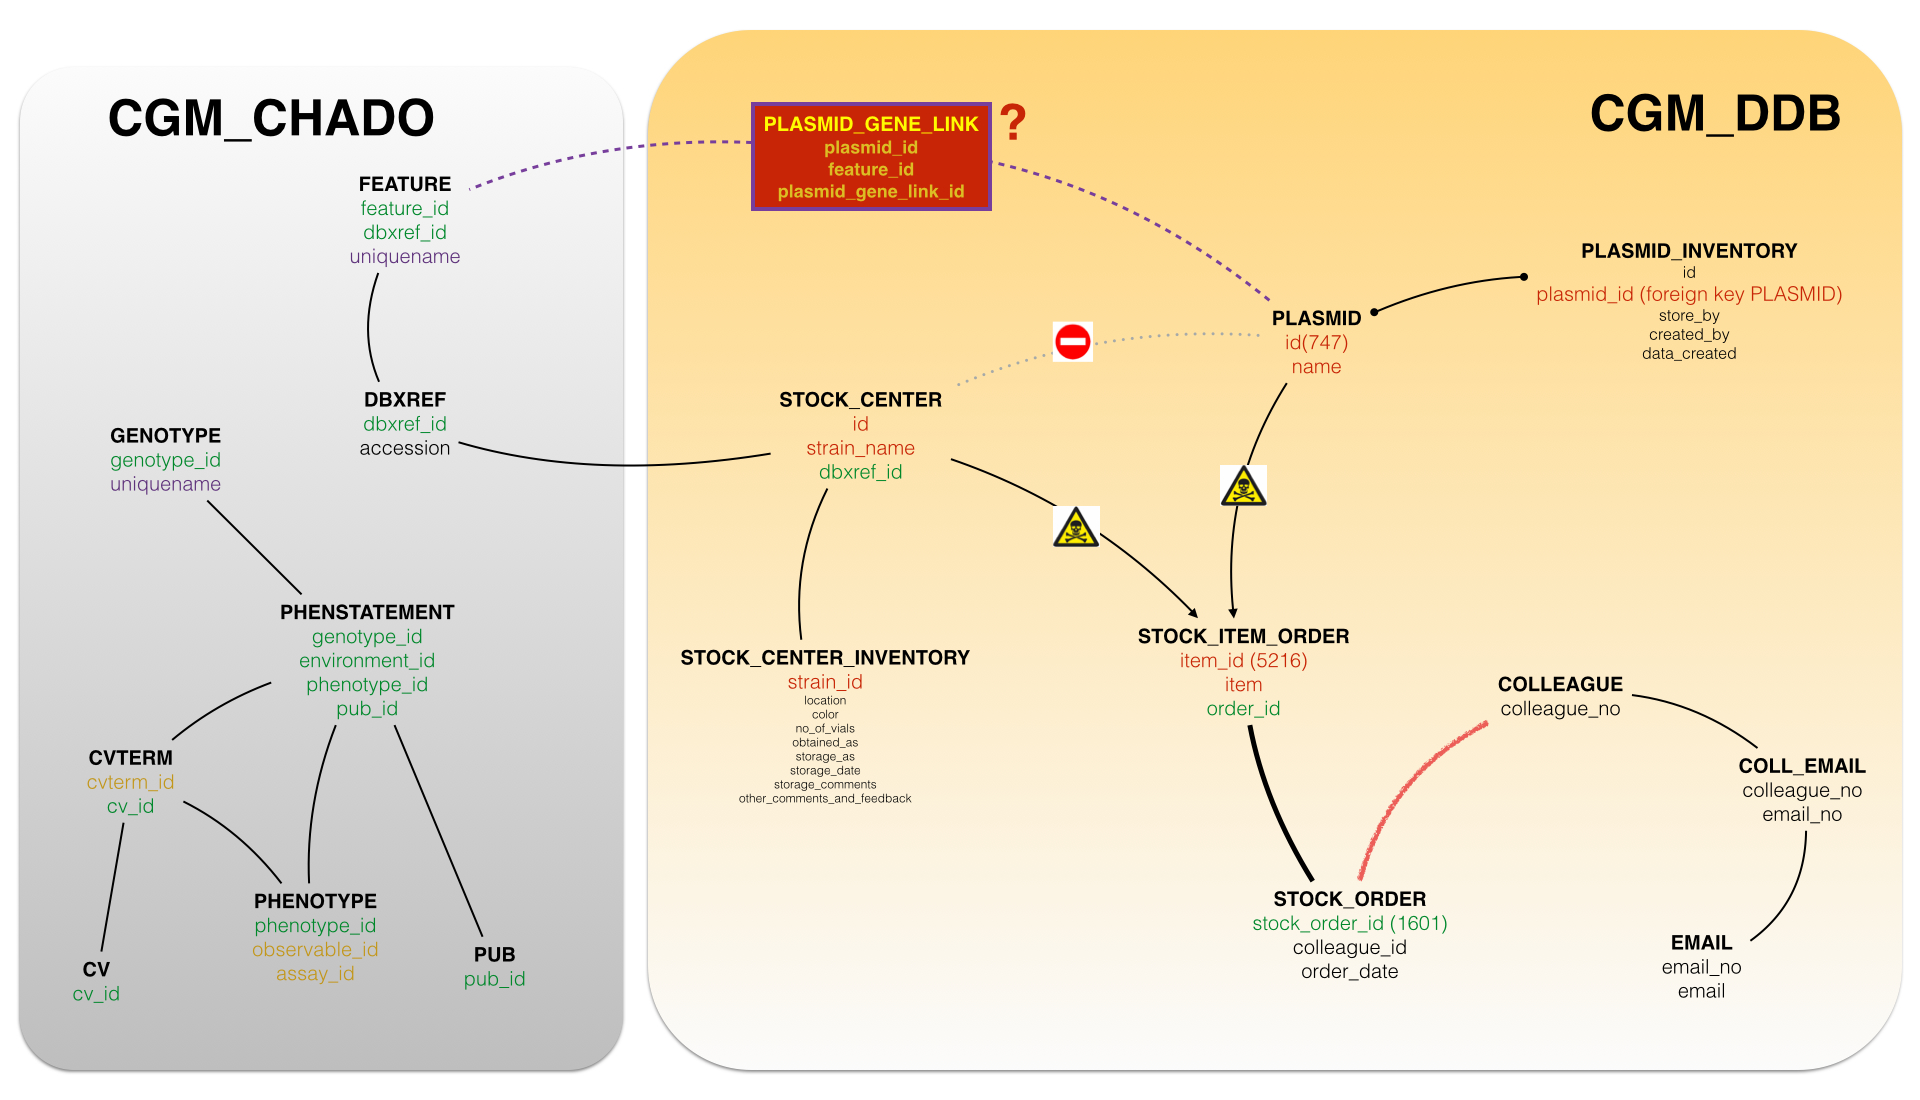
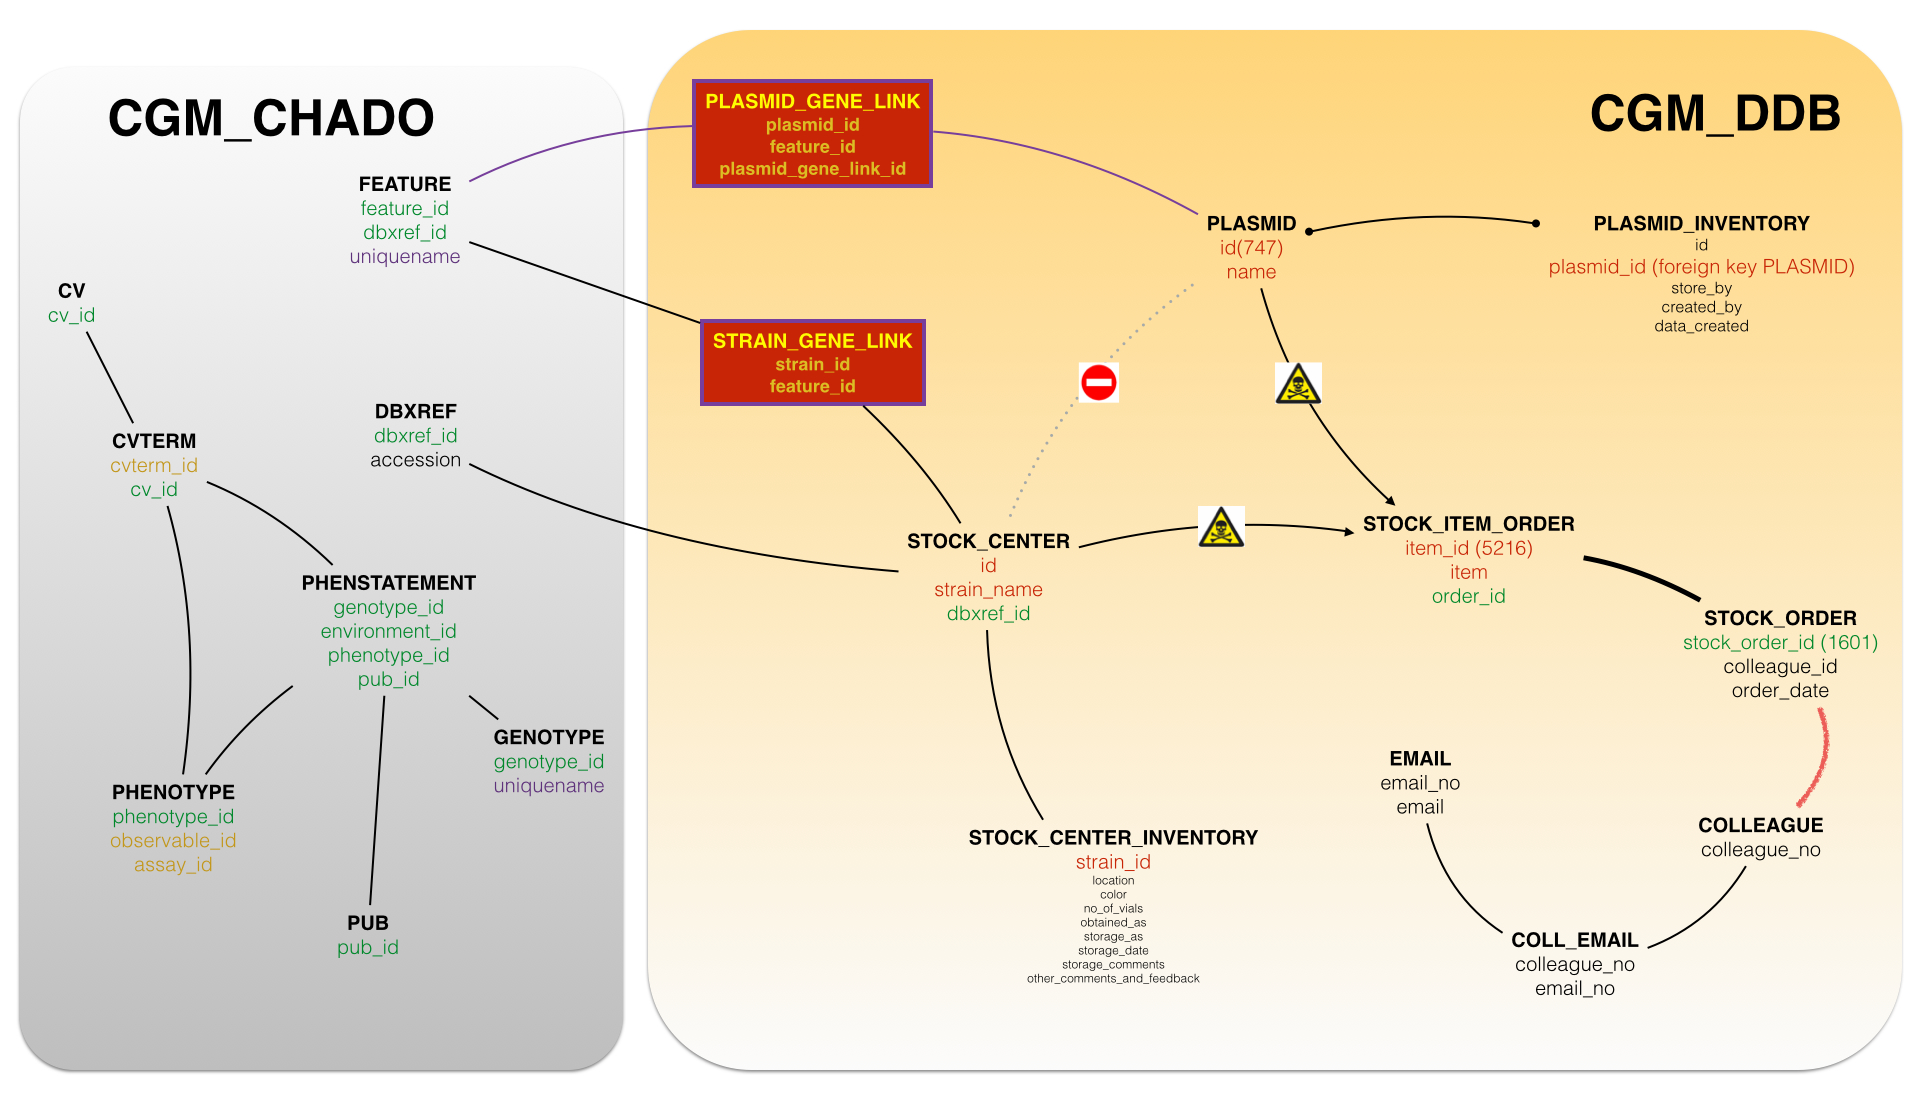
Stock Center Validation Analysis
The analysis has been completed

diff --git a/stock-data-migration/export.md b/stock-data-migration/export.md
@@ -1,13 +1,7 @@
-EXPORT
+STOCK_CENTER EXPORT
 ===
 
-# SQL for stock data export
-(`+` counts added on Apr 2015)
-
-## STRAINS
-
-- 6063 records in the `stock_center` table, with both unique `ID` and `DBXREF_ID`
-- 5594 unique `stock_name`
+Check the file [`export_validation`] for an analysis of the SQL statements found in this file.
 
 ```sql
 /* Strain (6063) -> strain_strain.tsv (6063) */
@@ -23,23 +17,12 @@ FROM CGM_DDB.stock_center_inventory sci
 JOIN CGM_DDB.stock_center sc ON sc.id = sci.strain_id
 JOIN CGM_CHADO.dbxref d ON d.dbxref_id = sc.dbxref_id;
 ```
-***Strain inventory notes***: 2468 inventory records, but there exist 1970 unique DBS_ID (which means that 498 records in the inventory are duplicates)
 
-
----
 ```sql
 /* Strain publications (6063) -> strain_publications.tsv(5988), strain_publications_no_pubmed.tsv(1949) */
 SELECT sc.strain_name, sc.pubmedid, sc.internal_db_id, sc.other_references
 FROM CGM_DDB.stock_center sc;
 ```
-***Strain publications notes***: 
-- Database: 4,523 strains have pubmed references in the pubmedid column, which means that 1,540 do not have one.
-
-- Exported to file `strain_publications.tsv`
-  + 5988 annotations
-  + 5448 unique DB_IDs (with a reference)
-  + 1076 unique references (many duplications)
-    * For example, the publication with PubmedID:17659086 appears 2258 times
 
 ```sql
 /* Helpful SQL to explore bibliography */
@@ -47,7 +30,6 @@ SELECT sc.strain_name, sc.pubmedid, sc.internal_db_id, sc.other_references
 FROM CGM_DDB.stock_center sc
 WHERE sc.pubmedid is null AND (sc.OTHER_REFERENCES is not null AND REGEXP_LIKE(OTHER_REFERENCES, '^(d[0-9]{4}/)'))
 ```
----
 
 ```sql
 /* Strain genotype (6063) -> strain_genotype.tsv */
@@ -56,16 +38,11 @@ FROM CGM_DDB.stock_center sc
 JOIN CGM_CHADO.dbxref d ON d.dbxref_id = sc.dbxref_id;
 ```
 
----
-
-#### TO VERIFIED
 ```sql
 /* Strain phenotype (6063) -> strain_phenotype.tsv (7742) */
 SELECT sc.strain_name, sc.phenotype
 FROM CGM_DDB.stock_center sc;
 ```
-
-***Strain phenotype possible conflict***: there are 1425 strains with phenotypes annotated in the database. However, the file `strain_phenotype.tsv` has 4,254 unique DB_ids, which means that strain phenotypes come from the following statement: 
 
 ```sql
 /* Phenotype (7742) -> strain_phenotype.tsv */
@@ -82,9 +59,10 @@ LEFT JOIN pub on pub.pub_id = pst.pub_id
 ORDER BY g.uniquename, pub.uniquename, phen.name;
 ```
 
-The question is: what is the relationship between this statement and the dicty stock center?
-
----
+```sql
+LEFT JOIN cv env_cv on env_cv.cv_id = env.cv_id
+LEFT JOIN cv assay_cv on assay_cv.cv_id = assay.cv_id
+```
 
 ```sql
 /* Strain gene link (1498) -> strain_genes.tsv (1498) */
@@ -105,30 +83,14 @@ JOIN CGM_CHADO.dbxref d ON d.dbxref_id = sc.dbxref_id
 JOIN CGM_CHADO.cvterm ct ON ct.cvterm_id = scc.cvterm_id;
 ```
 
-#### Modware-loader exported files
-
-`perl -Ilib bin/modware-dump dictystrain -c config-legacy.yaml -d data/`
-
-```shell
-With SQL
-      wc file
-   19297 strain_characteristics.tsv
-    1498 strain_genes.tsv
-    6063 strain_genotype.tsv
-    2468 strain_inventory.tsv
-    7742 strain_phenotype.tsv
-    6063 strain_strain.tsv
-
-    5988 strain_publications.tsv (5448 unique DB_ids)
-    1949 strain_publications_no_pubmed.tsv (1304 unique DB_ids)
-
-WITHOUT SQL
-   15317 strain_parent.tsv
-    4626 strain_plasmid.tsv
-   15098 strain_props.tsv
+```sql
+SELECT  d.accession, d2.accession gene_id, f.UNIQUENAME
+FROM CGM_DDB.stock_center sc
+JOIN CGM_DDB.strain_gene_link sgl ON sc.id = sgl.strain_id
+JOIN CGM_CHADO.dbxref d ON d.dbxref_id = sc.dbxref_id
+JOIN CGM_CHADO.feature f ON f.feature_id = sgl.feature_id
+JOIN CGM_CHADO.dbxref d2 ON d2.dbxref_id = f.dbxref_id
 ```
-
-## PLASMIDS
 
 ```sql
 /* Plasmid (747) -> plasmid_plasmid.tsv (747)*/
@@ -159,78 +121,8 @@ FROM CGM_DDB.plasmid
 WHERE genbank_accession_number IS NOT NULL;
 ```
 
-#### Modware-loader exported files
-
-`perl -Ilib bin/modware-dump dictyplasmid -c config-legacy.yaml -d data/`
-
-```shell
-With SQL
-      wc file
-      50  plasmid_genbank.tsv
-     531  plasmid_genes.tsv
-     835  plasmid_inventory.tsv
-     747  plasmid_plasmid.tsv
-
-WITHOUT SQL
-     3663  plasmid_props.tsv
-     655  plasmid_publications.tsv
-     456  plasmid_publications_no_pubmed.tsv  
-```
-
-#### SQL for those without SQL statements (`publications, publications_no_pubmed, props`)
-
-###### `plasmid_publications` (pubmedid)
-
-***In file***
-- 655 Number of publications in file
-- 554 unique DBP_ID in file
-
-***In database***
-
-- 747 plasmids
-  + 727 unique names (17 `names` are redundant)
-  + 549 with pubmedids
-  + 198 non pubmeids, with (9) nulls and  (189) has `spaces` in the pubmedid field.
-    * 179 are non-redundant (an example of redundant plasmid with `spaces` is: `pDDB_G0295493-REMI`.
-
 ```sql
-SELECT name
-FROM CGM_DDB.plasmid
-WHERE PUBMEDID IS NULL or
-REGEXP_LIKE(pubmedid, '^ +$')
-```
-
-```sql
-SELECT name, COUNT(*) AS REDUNDANT
-FROM CGM_DDB.plasmid
-WHERE PUBMEDID IS NULL or
-REGEXP_LIKE(pubmedid, '^ +$')
-GROUP BY NAME
-ORDER BY REDUNDANT DESC
-```
-
-###### `plasmid_props.tsv`
-It contains data for each plasmid of `depositor`, `synonymn`, and `keywords`, each of them in any line (3663). The specifics are:
-
-- In file: 744 unique IDs
-- In database: 747 plasmids
-  + 726 have depositor
-  + 506 have synonymn
-  + 706 keywords
-  + 477 have the three of them
-  + 3 don't have the three of them
-
-Conclusion: The file seems to be right.
-
-```sql
-SELECT depositor, synonymn, keywords 
-FROM plasmid
-```
-
-## Stock Orders
-
-```sql
-/* Stock Center Orders - Plasmids (1978) */
+/* Stock Center Orders(1978) - Plasmids (1978) */
 SELECT so.stock_order_id order_id, so.order_date, plasmid.id, plasmid.name, colleague.colleague_no, colleague.first_name, colleague.last_name, email.email
 FROM cgm_ddb.plasmid
 JOIN cgm_ddb.stock_item_order sio on
@@ -246,7 +138,7 @@ LEFT JOIN cgm_ddb.email on email.email_no=coe.email_no;
 ```
 
 ```sql
-/* Stock Center Orders - Strains (3132) */
+/* Stock Center Orders(3132) - Strains (3132) */
 SELECT so.stock_order_id order_id, so.order_date, sc.id id, sc.strain_name name, colleague.colleague_no, colleague.first_name, colleague.last_name, email.email
 FROM cgm_ddb.stock_center sc
 JOIN cgm_ddb.stock_item_order sio on

diff --git a/stock-data-migration/export_validation.md b/stock-data-migration/export_validation.md
@@ -1,9 +1,9 @@
 Stock Export: Data Validation
 ===
 
-Data validation to ensure that the data exported using `modware` is the same as the data retrieve from the database using SQL statements. The analysis is based on the counts of both the files and sql outputs.
+The following analysis was performed to ensure that the data exported using `modware-loader` is the same as the data retrieve from the database using `SQL` statements. The analysis is based on the counts of both the files and sql outputs.
 
-The database snapshot used was `dictyfull_20150309.zip`. As consequence, a different snapshot might get different counts than those summarized here.
+The database snapshot used was `dictyfull_20150309.zip`. A different snapshot might get different counts than those summarized here.
 
 The tables used to build the queries are summarized in the following figure:
 
@@ -104,7 +104,7 @@ FROM CGM_DDB.stock_center sc;
 
 ---
 
-***Strain phenotype possible conflict***: there are 1425 strains with phenotypes annotated in the database. However, the file `strain_phenotype.tsv` has 4,254 unique DB_ids, which means that strain phenotypes come from the following statement: 
+***Strain phenotype notes***: there are 1425 strains with phenotypes annotated in the database. However, the file `strain_phenotype.tsv` has 4,254 unique DB_ids, which means that strain phenotypes come from the following statement: 
 
 ```sql
 /* Phenotype (7742) -> strain_phenotype.tsv */
@@ -121,10 +121,12 @@ LEFT JOIN pub on pub.pub_id = pst.pub_id
 ORDER BY g.uniquename, pub.uniquename, phen.name;
 ```
 
-The statement is basically exporting the table PHENSTATEMENT (7742 elements), which is a linking table expressing the relationship between genotype, environment, and phenotype.
+The statement is basically exporting the table `PHENSTATEMENT` (7742 elements), which is a linking table expressing the relationship between genotype, environment, and phenotype.
 
 The questions are: 
-* what is the relationship between the statement and the dicty stock center? Response: there is no direct relationship. It is just a list of phenotypes what we need to export. 
+* what is the relationship between the statement and the dicty stock center? 
+
+Response: there is no direct relationship. It is just a list of phenotypes what we need to export. 
 
 * Are these JOINs really necessary? 
 
@@ -133,7 +135,7 @@ LEFT JOIN cv env_cv on env_cv.cv_id = env.cv_id
 LEFT JOIN cv assay_cv on assay_cv.cv_id = assay.cv_id
 ```
 
-Response: I don't think so. Or at least, it does not affect the results of the SELECT statement.
+Response: They don't. They will be further removed.
 
 ---
 
@@ -156,6 +158,24 @@ JOIN CGM_CHADO.dbxref d ON d.dbxref_id = sc.dbxref_id
 JOIN CGM_CHADO.cvterm ct ON ct.cvterm_id = scc.cvterm_id;
 ```
 
+***Strain - Feature relationship***
+
+The connection between `strains` and the `feature` table can be inferred from the `strain_genes.tsv` file.
+
+Summary: the connection between strains, i.e. `stock_center` (6063 ids, 5594 distinct `strain_names`) and the table `feature` is through the table `strain_gene_link` (1498 with 1318 `strain_ids` and 525 `feature_id`, i.e., a strain might have many `feature_id` associated. In addition, a `feature_id` might have many strains associated). 
+
+Although the table `stock_center` has a column `dbxref_id` that links to the table `dbxref`, and it could lead you to think that could be used to link it to the `feature` table, it is not possible because those `dbxref_id` coming from `stock_center` do not have a connection to the `feature` table. That's why the table `strain_gene_link` is necessary. 
+
+```sql
+SELECT  d.accession, d2.accession gene_id, f.UNIQUENAME
+FROM CGM_DDB.stock_center sc
+JOIN CGM_DDB.strain_gene_link sgl ON sc.id = sgl.strain_id
+JOIN CGM_CHADO.dbxref d ON d.dbxref_id = sc.dbxref_id
+JOIN CGM_CHADO.feature f ON f.feature_id = sgl.feature_id
+JOIN CGM_CHADO.dbxref d2 ON d2.dbxref_id = f.dbxref_id
+```
+
+Output: 1498 records. 
 
 
 ## PLASMIDS
@@ -261,7 +281,7 @@ FROM plasmid
 ## Stock Orders
 
 ```sql
-/* Stock Center Orders - Plasmids (1978) */
+/* Stock Center Orders(1978) - Plasmids (1978) */
 SELECT so.stock_order_id order_id, so.order_date, plasmid.id, plasmid.name, colleague.colleague_no, colleague.first_name, colleague.last_name, email.email
 FROM cgm_ddb.plasmid
 JOIN cgm_ddb.stock_item_order sio on
@@ -277,7 +297,7 @@ LEFT JOIN cgm_ddb.email on email.email_no=coe.email_no;
 ```
 
 ```sql
-/* Stock Center Orders - Strains (3132) */
+/* Stock Center Orders(3132) - Strains (3132) */
 SELECT so.stock_order_id order_id, so.order_date, sc.id id, sc.strain_name name, colleague.colleague_no, colleague.first_name, colleague.last_name, email.email
 FROM cgm_ddb.stock_center sc
 JOIN cgm_ddb.stock_item_order sio on
